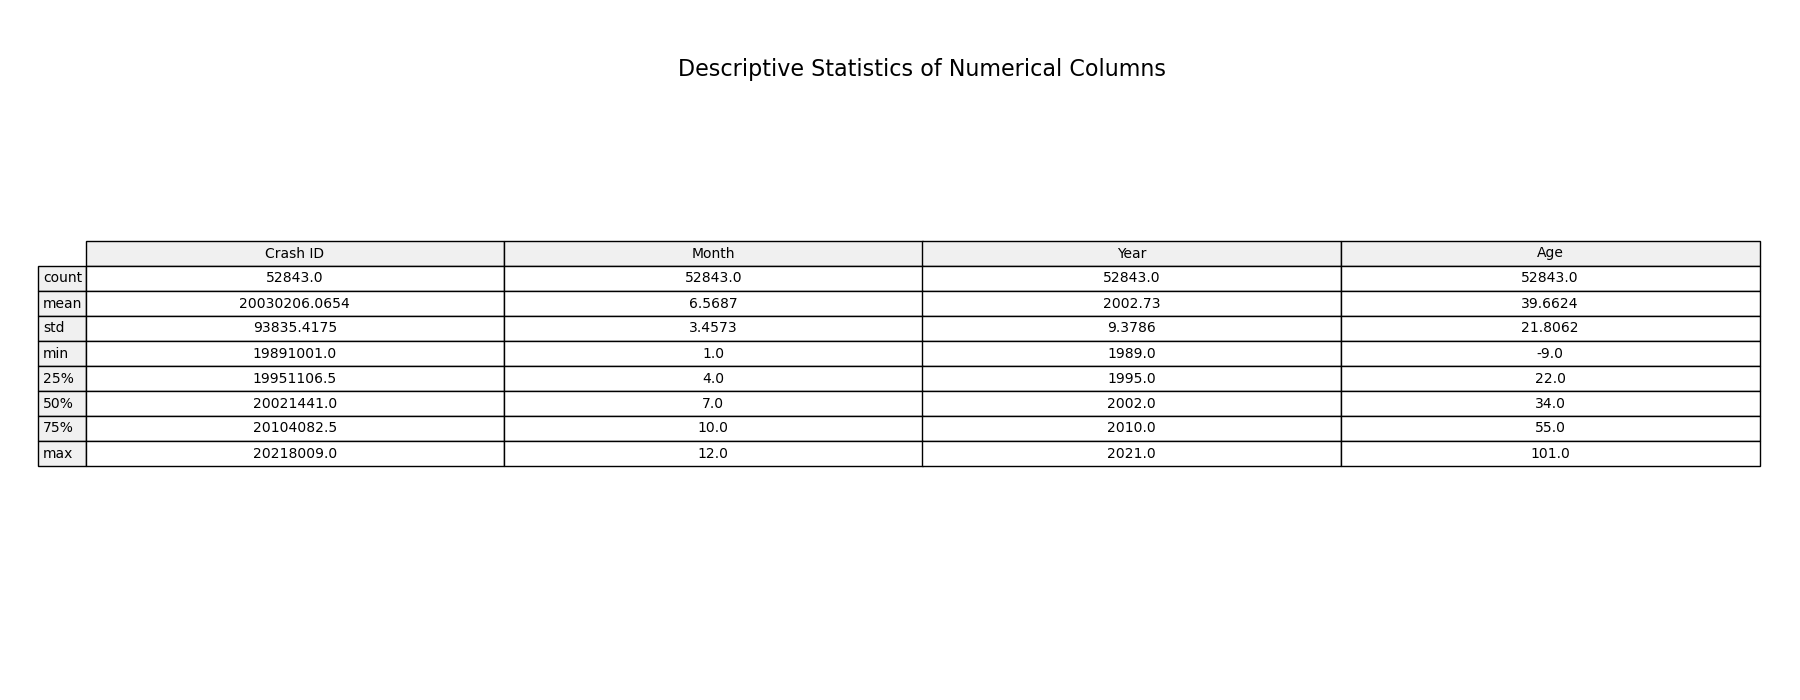
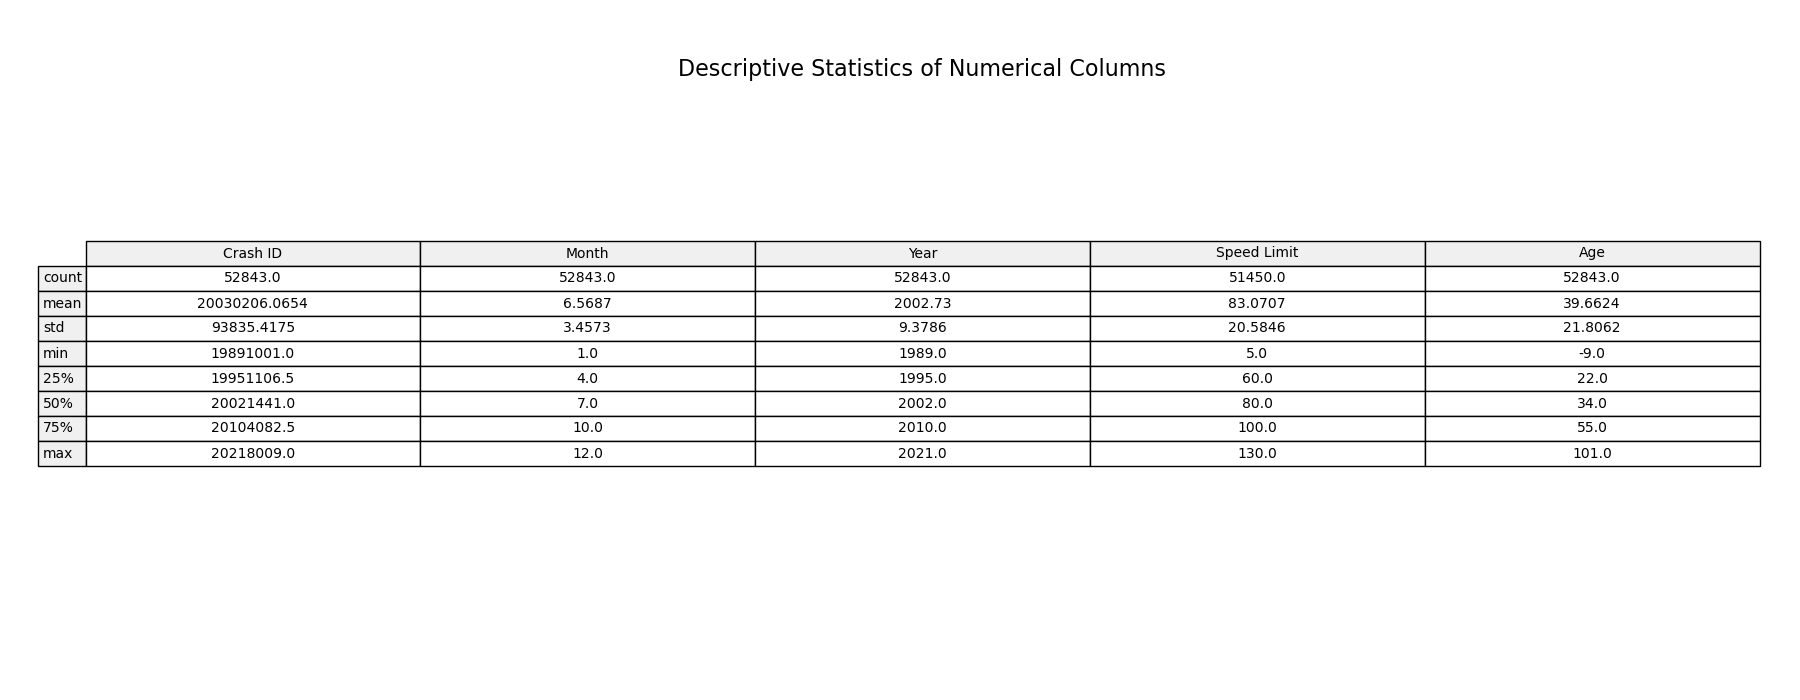
Torna 'Speed Limit' numérico. Trata linhas vazias, e começa a analise de outliers.

diff --git a/data_analyses/crash_data/crash.py b/data_analyses/crash_data/crash.py
@@ -3,12 +3,30 @@ import numpy as np
 import matplotlib.pyplot as plt
 import seaborn as sns
 from scipy.stats import chi2_contingency
+import random
 import warnings
 warnings.filterwarnings("ignore")
+
+def fill_with_mode(column = None):
+    """
+    Função para escolher a moda de uma série de dados.
+    """
+    fill_column = column.copy()
+    modas = column.mode()
+    if len(modas) == 1:
+        fill_column = fill_column.fillna(modas[0])
+        return fill_column
+    
+    fill_column = fill_column.fillna(random.choice(modas))
+    return fill_column
 
 filename = '../../dataset/crash_data.csv'
 images_path = 'data_visualization/'
 df = pd.read_csv(filename, low_memory=False)
+
+df['Speed Limit'] = df['Speed Limit'].replace(['-9', -9, '', ' '], np.nan)
+#Forçando erro para NaN
+df['Speed Limit'] = pd.to_numeric(df['Speed Limit'], errors='coerce')
 
 numerical_columns = df.select_dtypes(include=['int', 'float']).columns.tolist()
 categoric_columns = df.select_dtypes(include=['object']).columns.tolist()
@@ -46,10 +64,29 @@ null_summary.to_markdown(buf= images_path + 'sumario_nulos.md',index=False)
 
 #Lidando com os valores nulos
 df = df.dropna(subset = ['Time','Bus Involvement','Articulated Truck Involvement','Gender','Age Group'])
-#preenchendo os valores nulos com a media
-#print(df['Heavy Rigid Truck Involvement'].mode())
-df['Heavy Rigid Truck Involvement'] = df['Heavy Rigid Truck Involvement'].fillna('No')
-#print(df['Heavy Rigid Truck Involvement'].isnull().sum())
+df['Speed Limit'] = df['Speed Limit'].fillna(int(df['Speed Limit'].mean()))
+#preenchendo os valores nulos com a moda
+df['Heavy Rigid Truck Involvement'] = fill_with_mode(df['Heavy Rigid Truck Involvement'])
+df['National Remoteness Areas'] = fill_with_mode(df['National Remoteness Areas'])
+df['SA4 Name 2016'] = fill_with_mode(df['SA4 Name 2016'])
+df['National LGA Name 2017'] = fill_with_mode(df['National LGA Name 2017'])
+df['National Road Type'] = fill_with_mode(df['National Road Type'])
+
+
+#Usando boxplot para verificar outliers
+fig, ax = plt.subplots(1,2,figsize=(14, 7))
+
+ax[0].set_title('Boxplot of Age')
+ax[0].set_ylabel('Age')
+ax[0].boxplot(df['Age'])
+
+ax[1].set_title('Boxplot of Speed Limit')
+ax[1].set_ylabel('Speed Limit')
+ax[1].boxplot(df['Speed Limit'])
+
+plt.tight_layout()
+plt.savefig(images_path + 'boxplot_age_speed.png')
+plt.close()
 
 # Verifica os anos existentes no DataFrame
 counts = df['Year'].value_counts().sort_index()
@@ -72,7 +109,7 @@ female = df[df['Gender'] == 'Female']
 # Verificar relação entre acidentes e sexo
 acc_male = male['Year'].value_counts().sort_index().rename('Male')
 acc_female = female['Year'].value_counts().sort_index().rename('Female')
-acc_by_gender = pd.concat([acc_male, acc_female], axis=1).fillna(0)
+acc_by_gender = pd.concat([acc_male, acc_female], axis=1)
 
 plt.figure(figsize=(14, 7))
 

diff --git a/data_analyses/crash_data/data_visualization/sumario_nulos.md b/data_analyses/crash_data/data_visualization/sumario_nulos.md
@@ -10,7 +10,7 @@
 | Bus Involvement               |           22 |          0.04 |
 | Heavy Rigid Truck Involvement |        20515 |         38.82 |
 | Articulated Truck Involvement |           22 |          0.04 |
-| Speed Limit                   |          702 |          1.33 |
+| Speed Limit                   |         1393 |          2.64 |
 | Road User                     |            0 |          0    |
 | Gender                        |           27 |          0.05 |
 | Age                           |            0 |          0    |
